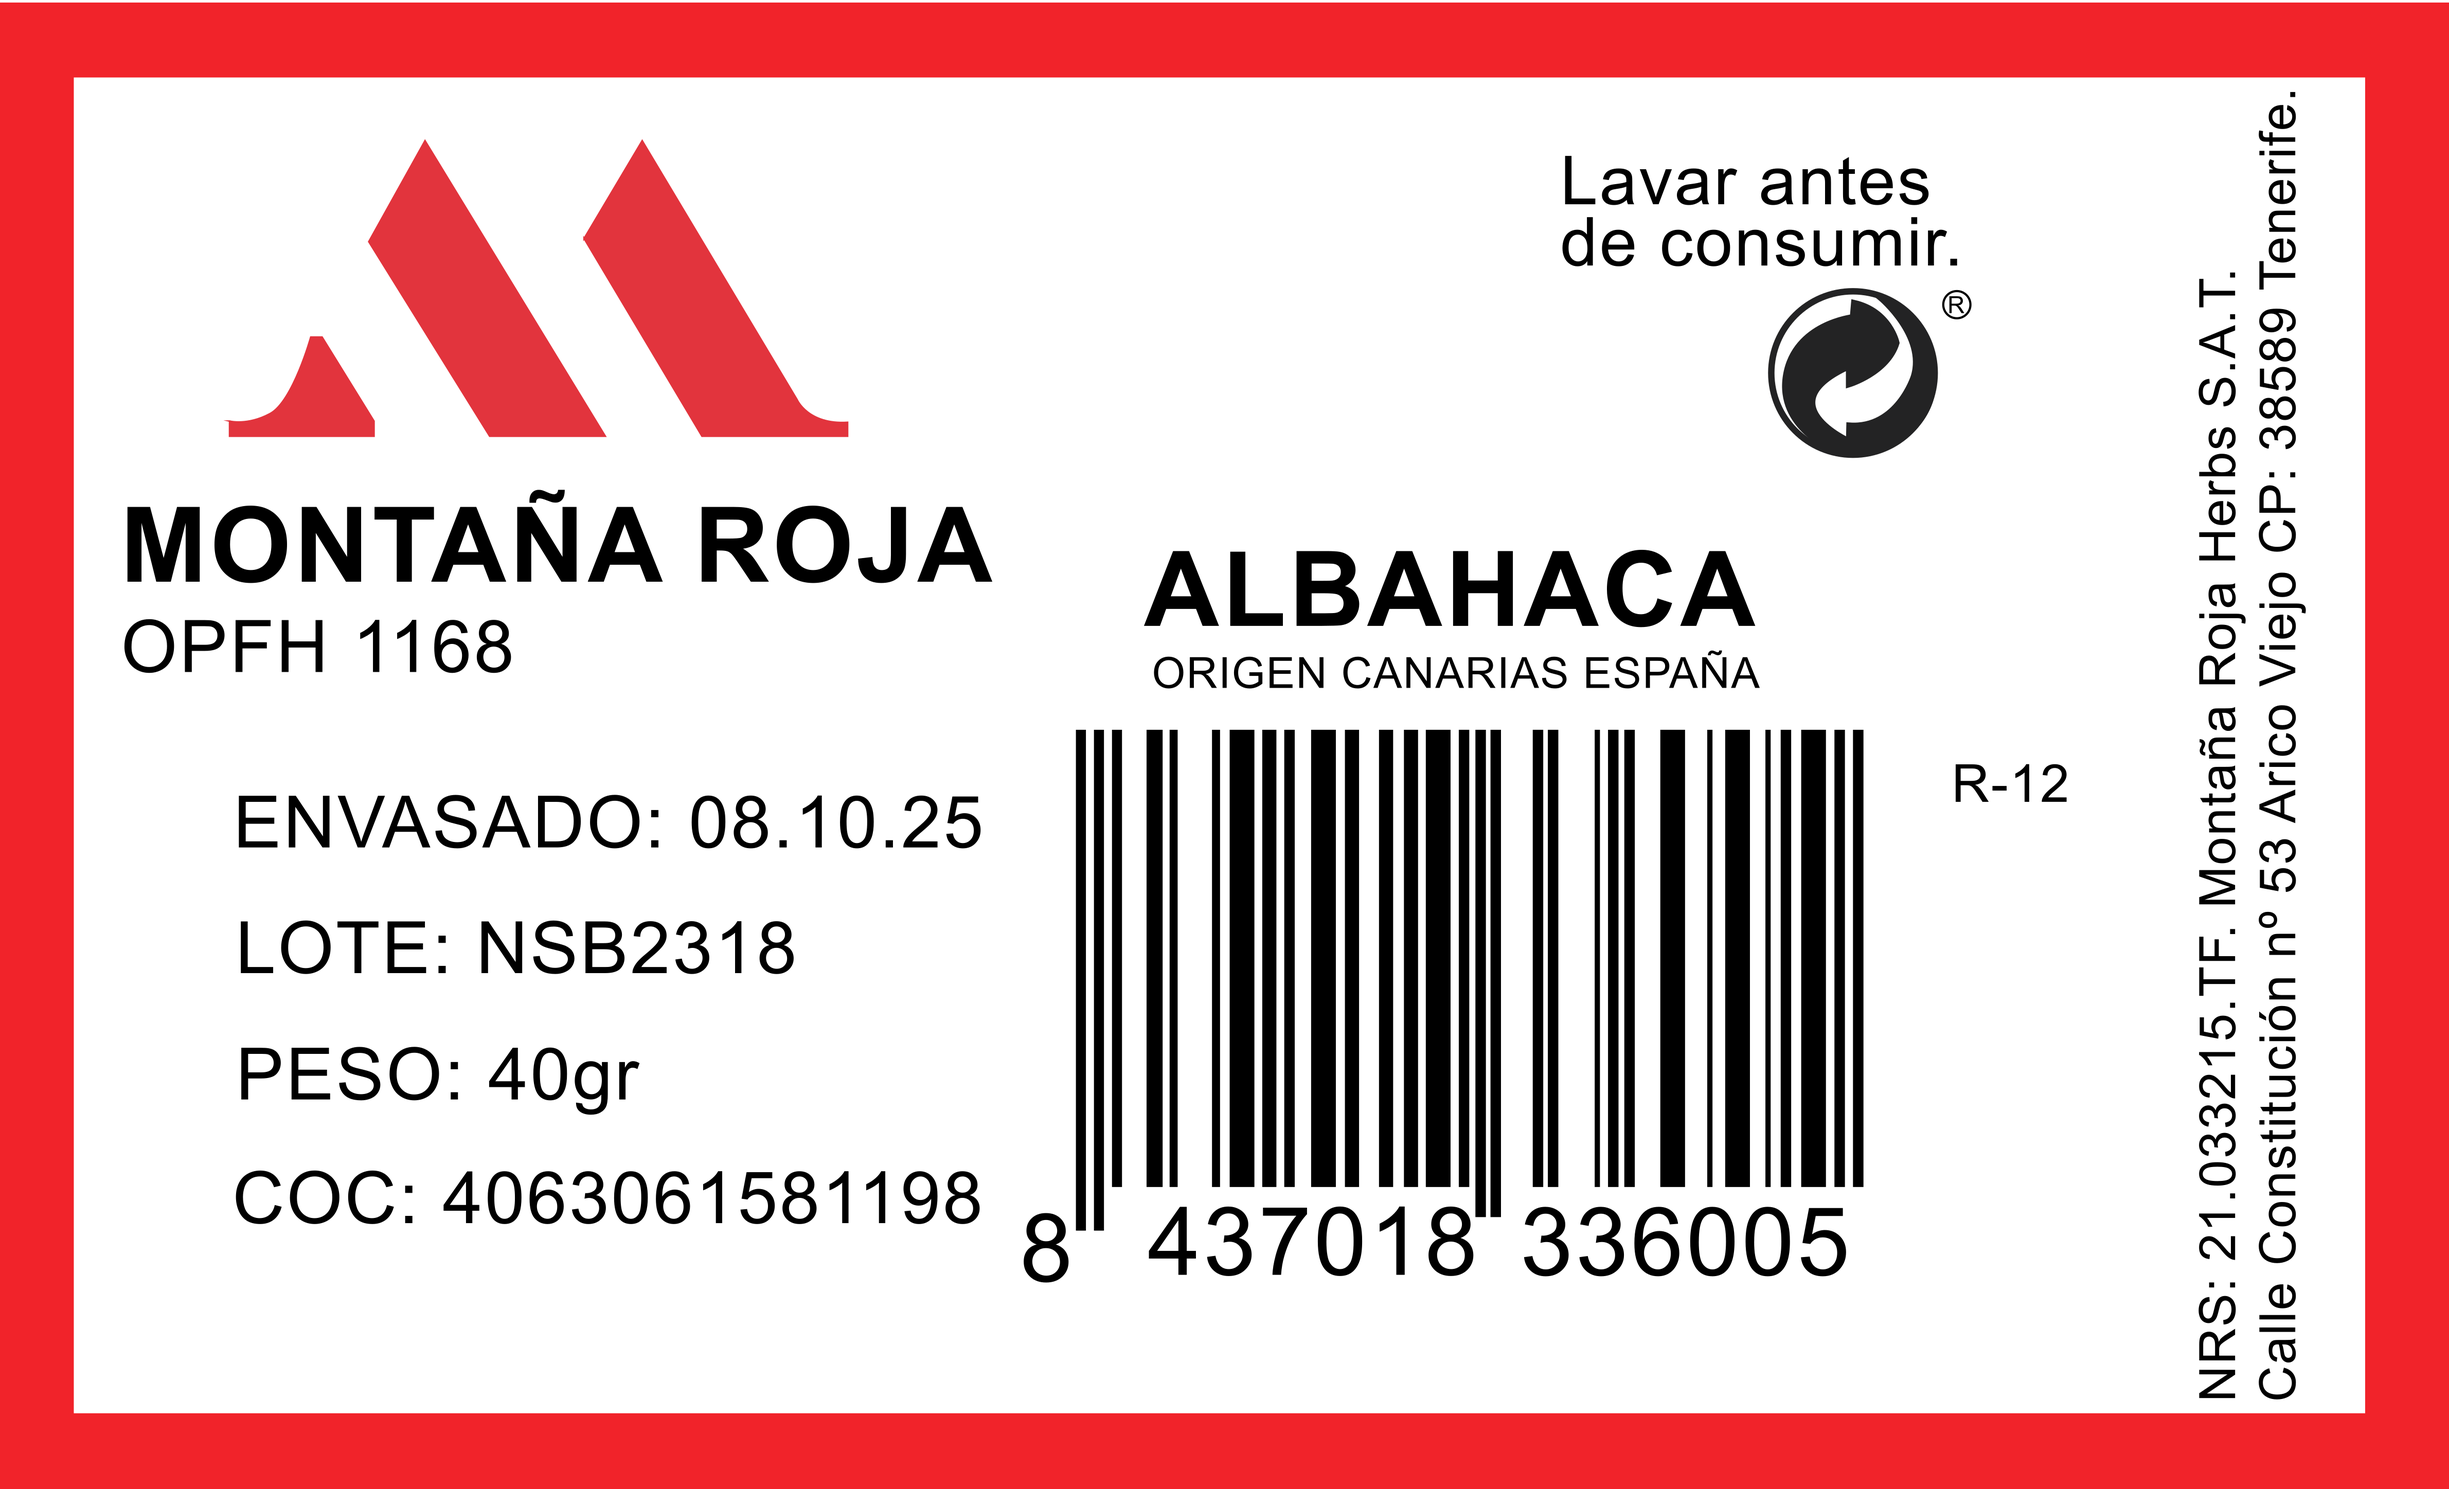
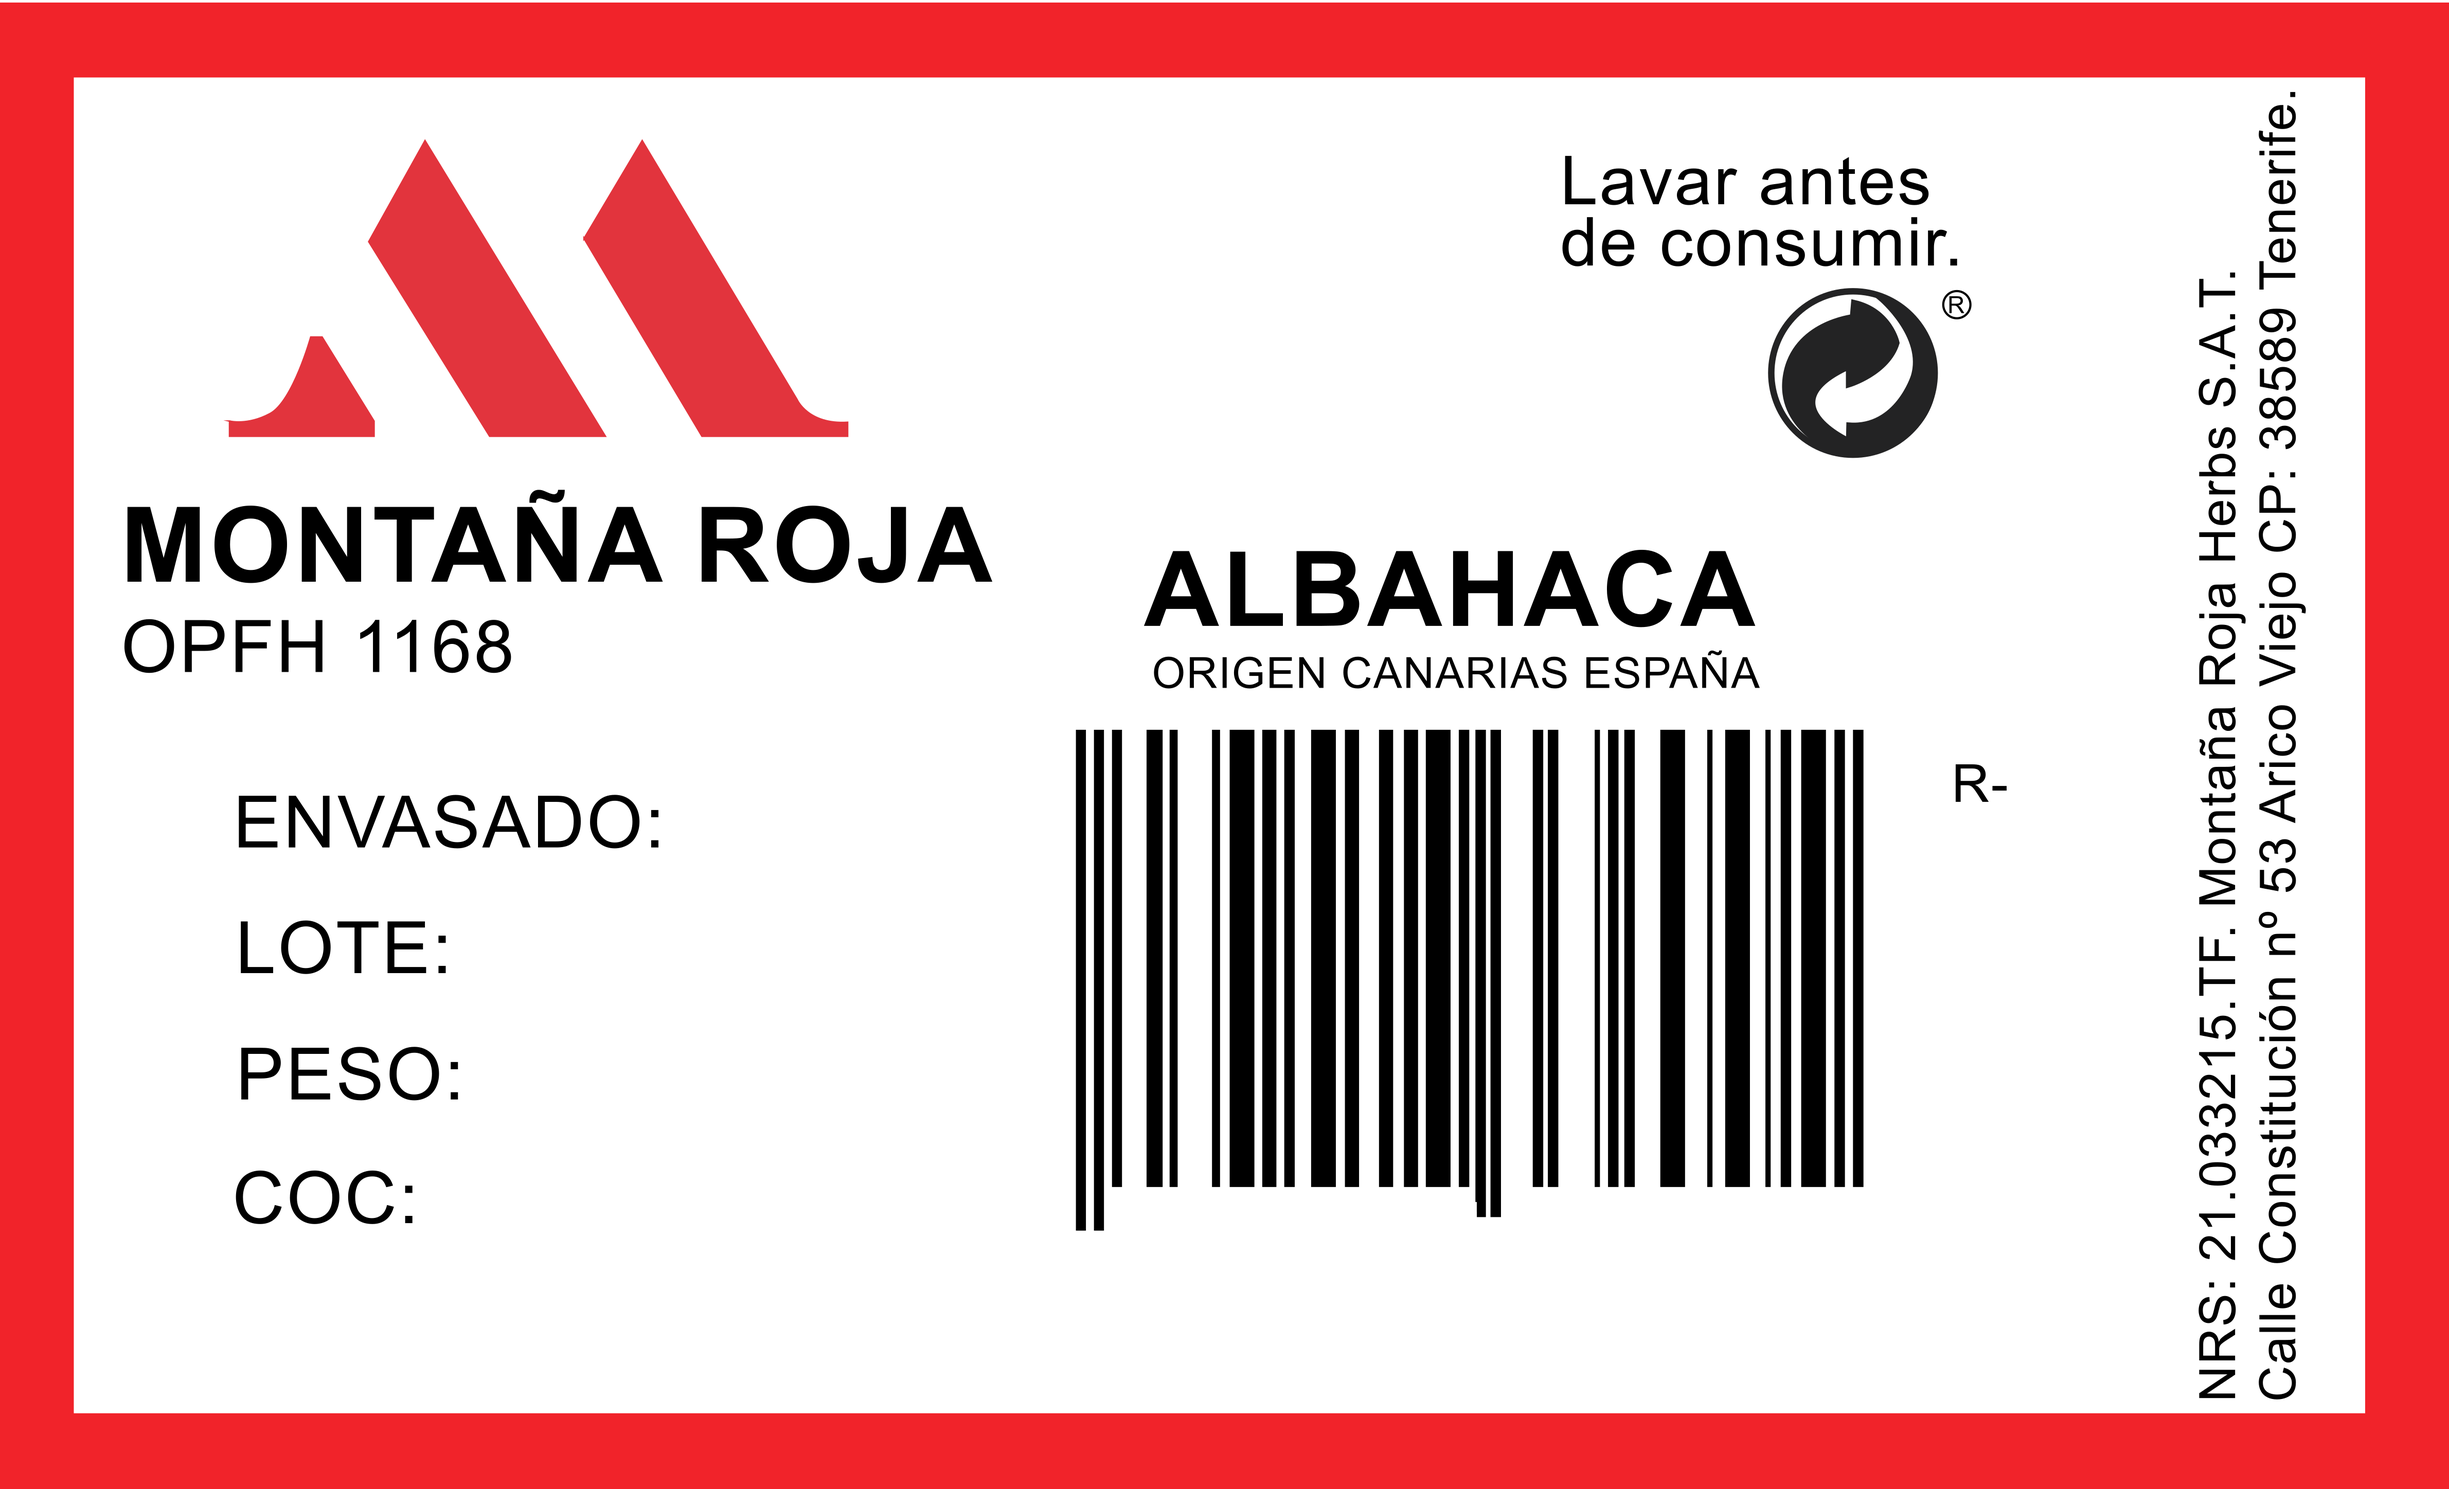
commit_etfinish

diff --git a/src/server/label-renderer.ts b/src/server/label-renderer.ts
@@ -25,24 +25,41 @@ export interface LabelRenderResult {
   mimeType: string
 }
 
-const DEFAULT_TEMPLATE_RELATIVE_PATH = path.join('public', 'Etiqueta.png')
-const DEFAULT_FONT_SIZE = 26
+const DEFAULT_TEMPLATE_RELATIVE_PATH = path.join('public', 'Etiqueta.PNG')
+const DEFAULT_FONT_SIZE = 56
 const DEFAULT_FONT_COLOR = rgb(0, 0, 0)
 
 type LayoutKey = keyof LabelRenderFields
 
 interface LayoutEntry {
-  x: number
-  y: number
+  baseX: number
+  baseY: number
   fontSize?: number
   align?: 'left' | 'center' | 'right'
 }
 
+const BASE_WIDTH = 1262
+const BASE_HEIGHT = 768
+
 const TEXT_LAYOUT: Record<LayoutKey, LayoutEntry> = {
-  fechaEnvasado: { x: 0.64, y: 0.33 },
-  lote: { x: 0.64, y: 0.27 },
-  codigoCoc: { x: 0.64, y: 0.21 },
-  codigoR: { x: 0.64, y: 0.15 },
+  fechaEnvasado: { baseX: 340, baseY: 440, align: 'left', fontSize: 36 },
+  lote: { baseX: 230, baseY: 500, align: 'left', fontSize: 36 },
+  codigoCoc: { baseX: 220, baseY: 630, align: 'left', fontSize: 36 },
+  codigoR: { baseX: 1035, baseY: 415, align: 'left', fontSize: 28 },
+}
+
+const WEIGHT_LAYOUT: LayoutEntry = {
+  baseX: 250,
+  baseY: 570,
+  align: 'left',
+  fontSize: 38,
+}
+
+const BARCODE_NUMBER_LAYOUT = {
+  baseX: 690,
+  baseY: 670,
+  fontSize: 38,
+  align: 'center' as const,
 }
 
 let cachedTemplateBuffer: Buffer | null = null
@@ -61,6 +78,9 @@ export async function renderLabelPdf({
   const pdfDoc = await PDFDocument.create()
   const pngImage = await pdfDoc.embedPng(templateBuffer)
   const page: any = pdfDoc.addPage([pngImage.width, pngImage.height])
+
+  const scaleX = pngImage.width / BASE_WIDTH
+  const scaleY = pngImage.height / BASE_HEIGHT
 
   const pageProtoKeys = Object.getOwnPropertyNames(Object.getPrototypeOf(page))
 
@@ -91,11 +111,11 @@ export async function renderLabelPdf({
     if (!value) return
 
     const layout = TEXT_LAYOUT[key]
-    const fontSize = layout.fontSize ?? DEFAULT_FONT_SIZE
+    const fontSize = (layout.fontSize ?? DEFAULT_FONT_SIZE) * scaleY
     const textWidth = approximateTextWidth(value, fontSize)
 
-    const x = resolvePosition(layout.x, pngImage.width, layout.align, textWidth)
-    const y = layout.y * pngImage.height
+    const x = resolvePosition(layout.baseX * scaleX, layout.align, textWidth)
+    const y = pngImage.height - layout.baseY * scaleY
 
     if (typeof page.drawText === 'function') {
       page.drawText(value, {
@@ -106,6 +126,38 @@ export async function renderLabelPdf({
       })
     }
   })
+
+  const barcodeText = normalizeFieldValue(fields.codigoCoc)
+  if (barcodeText && typeof page.drawText === 'function') {
+    const layout = BARCODE_NUMBER_LAYOUT
+    const fontSize = (layout.fontSize ?? DEFAULT_FONT_SIZE) * scaleY
+    const textWidth = approximateTextWidth(barcodeText, fontSize)
+    const x = resolvePosition(layout.baseX * scaleX, layout.align, textWidth)
+    const y = pngImage.height - layout.baseY * scaleY
+
+    page.drawText(barcodeText, {
+      x,
+      y,
+      size: fontSize,
+      color: DEFAULT_FONT_COLOR,
+    })
+  }
+
+  if (typeof page.drawText === 'function') {
+    const layout = WEIGHT_LAYOUT
+    const fontSize = (layout.fontSize ?? DEFAULT_FONT_SIZE) * scaleY
+    const weightText = '40gr'
+    const textWidth = approximateTextWidth(weightText, fontSize)
+    const x = resolvePosition(layout.baseX * scaleX, layout.align, textWidth)
+    const y = pngImage.height - layout.baseY * scaleY
+
+    page.drawText(weightText, {
+      x,
+      y,
+      size: fontSize,
+      color: DEFAULT_FONT_COLOR,
+    })
+  }
 
   const pdfBytes = await pdfDoc.save()
   return {
@@ -128,12 +180,10 @@ async function loadTemplate(customPath?: string): Promise<Buffer> {
 }
 
 function resolvePosition(
-  relativeX: number,
-  totalWidth: number,
+  absoluteX: number,
   align: LayoutEntry['align'],
   textWidth: number,
 ): number {
-  const absoluteX = totalWidth * clamp(relativeX, 0, 1)
   if (align === 'center') {
     return absoluteX - textWidth / 2
   }
@@ -143,14 +193,15 @@ function resolvePosition(
   return absoluteX
 }
 
-function clamp(value: number, min: number, max: number) {
-  return Math.min(Math.max(value, min), max)
-}
-
 function normalizeFieldValue(value?: string | null): string | null {
   if (!value) return null
   const trimmed = value.trim()
   if (!trimmed) return null
+  const isoMatch = trimmed.match(/^(\d{4})-(\d{2})-(\d{2})$/)
+  if (isoMatch) {
+    const [, year, month, day] = isoMatch
+    return `${day}.${month}.${year.slice(-2)}`
+  }
   return trimmed.toUpperCase()
 }
 

diff --git a/src/app/panel/[slug]/page.tsx b/src/app/panel/[slug]/page.tsx
@@ -1095,12 +1095,6 @@ export default function PanelPage() {
         if (folderId.length > 0) {
           formData.append('folder', folderId)
         }
-        if (meta?.destination) {
-          formData.append('destination', meta.destination)
-        }
-        if (meta?.notes) {
-          formData.append('notes', meta.notes)
-        }
         if (meta?.lote) {
           formData.append('manualLote', meta.lote)
         }
@@ -1839,34 +1833,6 @@ function LabelsDashboard({
                 </button>
               </div>
 
-              <div className="grid gap-4 sm:grid-cols-2">
-                <div className="flex flex-col gap-1">
-                  <label className="text-xs font-semibold uppercase tracking-wide text-gray-500">
-                    Destino (opcional)
-                  </label>
-                  <input
-                    type="text"
-                    value={destination}
-                    onChange={(event) => setDestination(event.target.value)}
-                    placeholder="Ej. Almacén central, campaña cítricos"
-                    disabled={uploading}
-                    className="rounded-xl border border-gray-300 bg-white px-3 py-2 text-sm text-gray-800 focus:outline-none focus:ring-2 focus:ring-gray-900/10"
-                  />
-                </div>
-                <div className="flex flex-col gap-1">
-                  <label className="text-xs font-semibold uppercase tracking-wide text-gray-500">
-                    Notas para el flujo
-                  </label>
-                  <input
-                    type="text"
-                    value={notes}
-                    onChange={(event) => setNotes(event.target.value)}
-                    placeholder="Añade contexto para n8n o el almacén"
-                    disabled={uploading}
-                    className="rounded-xl border border-gray-300 bg-white px-3 py-2 text-sm text-gray-800 focus:outline-none focus:ring-2 focus:ring-gray-900/10"
-                  />
-                </div>
-              </div>
 
               <div className="rounded-2xl border border-gray-200 bg-white px-4 py-4 sm:px-5 sm:py-5">
                 <p className="text-xs font-semibold uppercase tracking-wide text-gray-500">

diff --git a/src/app/api/storage/uploads/route.ts b/src/app/api/storage/uploads/route.ts
@@ -60,8 +60,6 @@ export async function POST(request: NextRequest) {
     const arrayBuffer = await file.arrayBuffer()
     const buffer = Buffer.from(arrayBuffer)
 
-    const destination = formData.get('destination')
-    const notes = formData.get('notes')
     const manualLote = formData.get('manualLote')
     const manualFechaEnvasado = formData.get('manualFechaEnvasado')
     const manualCodigoCoc = formData.get('manualCodigoCoc')
@@ -74,14 +72,10 @@ export async function POST(request: NextRequest) {
       codigoR: getOptionalString(manualCodigoR),
     }
     const metadata = {
-      destination: destination ? String(destination) : undefined,
-      notes: notes ? String(notes) : undefined,
       userEmail: userEmailValue ? String(userEmailValue) : undefined,
       manualFields,
     }
     const description =
-      metadata.destination ||
-      metadata.notes ||
       manualFields.lote ||
       manualFields.fechaEnvasado ||
       manualFields.codigoCoc ||
@@ -107,14 +101,8 @@ export async function POST(request: NextRequest) {
           fileId: driveFileId,
           fileName: uploaded.name ?? file.name,
           existingDescription: description ?? null,
-          destination:
-            typeof metadata.destination === 'string' && metadata.destination.length > 0
-              ? metadata.destination
-              : null,
-          notes:
-            typeof metadata.notes === 'string' && metadata.notes.length > 0
-              ? metadata.notes
-              : null,
+          destination: null,
+          notes: null,
           folderId,
           templatePath: process.env.LABEL_TEMPLATE_PATH ?? null,
           manualFields,

diff --git a/src/lib/panel-config.ts b/src/lib/panel-config.ts
@@ -597,10 +597,7 @@ const etiquetasPlan: PanelPlanConfig = {
   id: 'etiquetas-albaranes',
   name: 'Etiquetas automáticas de albarán',
   summary: 'Sube el PDF, generamos la etiqueta y notificamos al almacén con trazabilidad completa.',
-  resources: [
-    { label: 'Checklist de integración n8n', href: '/automatizaciones' },
-    { label: 'Historial completo', variant: 'view', href: '#historial-etiquetas' },
-  ],
+  resources: [],
   dataset: {
     type: 'labels',
     table: 'albaranes_pedidos',
